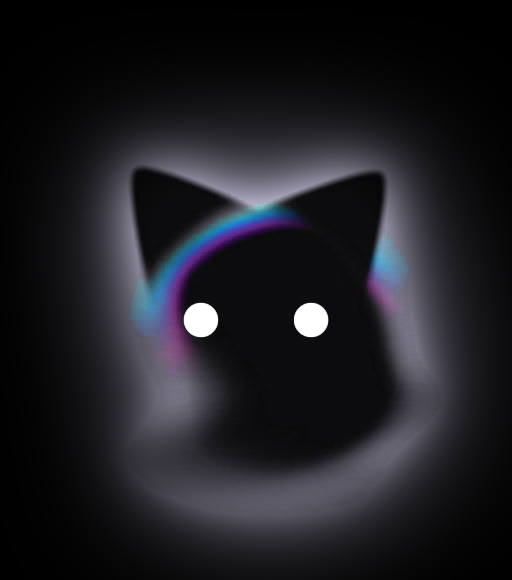
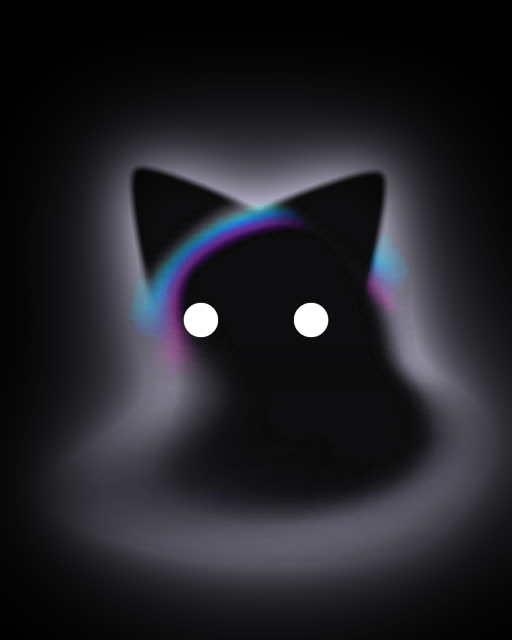
T3668: a referência final do Kiwi-cat com a pose corrigida (corpo no rabisco do harry)

diff --git a/docs/brand/rive/README.md b/docs/brand/rive/README.md
@@ -1,5 +1,5 @@
 # Kiwi-cat no Rive
 
-`referencia-final.png` é a **imagem de referência final aprovada pelo harry** (#3636, a opção 3 do #3626): a referência original, sem espelhar e sem redesenhar, sobre preto, com uma luz que só existe perto do gato, para a silhueta aparecer, e o corpo endireitado.
+`referencia-final.png` é a **imagem de referência final aprovada pelo harry** (#3636 e #3666): a opção 3 do #3626 com a pose corrigida, o corpo esticado até o rabisco dele (#3635). É a referência original, sem espelhar e sem redesenhar, sobre preto, com uma luz que só existe perto do gato, para a silhueta aparecer. A imagem é a pilha das camadas `literal/` (luz, corpo, cabeça e olhos) do T3151.
 
 A animação do Rive (T3151, spec #3133) parte desta imagem. O roteiro e as camadas vêm no PR do T3151.
